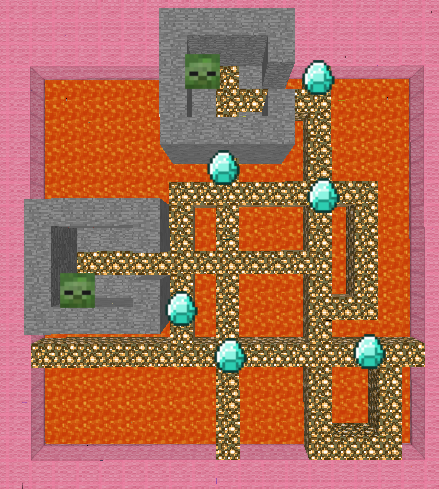
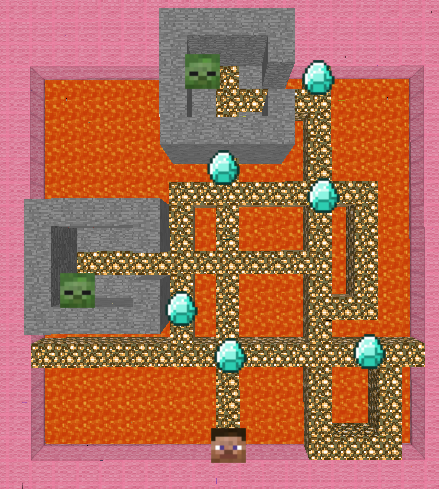
modified images more (with credits)

Changed region(s): [[0.4738, 0.8589, 0.5626, 0.9509]]

diff --git a/docs/css/custom.css b/docs/css/custom.css
@@ -62,3 +62,10 @@ code {
     margin-left: auto;
     box-shadow: 0 4px 8px 0 rgba(0, 0, 0, 0.2), 0 6px 20px 0 rgba(0, 0, 0, 0.19);
 }
+
+.container img.icon
+{
+    display: inline;
+    box-shadow: none;
+    height: 1.5em;
+}

diff --git a/docs/final.md b/docs/final.md
@@ -145,5 +145,6 @@ Under Construction.
 * **N-Queens Part 1: Steepest Hill Climbing:** <http://letstalkdata.com/2013/12/n-queens-part-1-steepest-hill-climbing/>
 
 *Image Credits:*
-* **Diamond.png** <img src="media/Diamond.png" style="display: inline;" />: [Gamepedia Minecraft Wiki](http://minecraft.gamepedia.com/File:Diamond.png)
-* **Zombie.png** <img src="media/Zombie.png" style="display: inline;" />: [Pinterest](https://s-media-cache-ak0.pinimg.com/originals/ac/65/8a/ac658a2c0bc1117c6d547170b23dec72.jpg)
+* **Diamond.png** <img src="media/Diamond.png" class="icon" />: [Gamepedia Minecraft Wiki](http://minecraft.gamepedia.com/File:Diamond.png)
+* **Zombie.png** <img src="media/Zombie.png" class="icon" />: [Pinterest](https://s-media-cache-ak0.pinimg.com/originals/ac/65/8a/ac658a2c0bc1117c6d547170b23dec72.jpg)
+* **Steve.png** <img src="media/Steve.png" class="icon" />: [FPSXGames](http://www.fps-x-games.com/2013/06/free-minecraft-steve-head-printable-mask.html)
